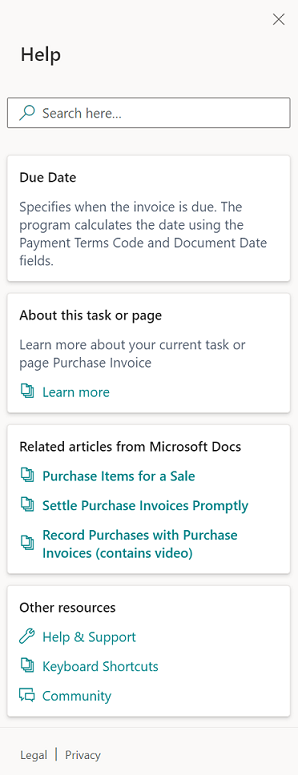
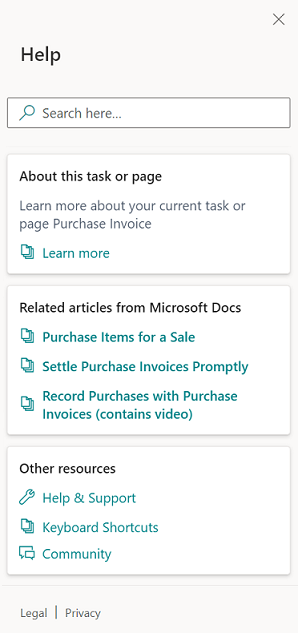
updates

diff --git a/dev-itpro/user-assistance.md b/dev-itpro/user-assistance.md
@@ -5,7 +5,7 @@ author: edupont04
 ms.custom: na
 ms.reviewer: na
 ms.topic: article
-ms.date: 01/28/2022
+ms.date: 03/08/2022
 ms.author: edupont
 ---
 
@@ -29,9 +29,13 @@ In this article, we'll talk about the user assistance model itself and what it d
 
 ## Help users get started
 
-The user assistance concept of *Get Started* is not just about getting started with [!INCLUDE[prod_short](developer/includes/prod_short.md)] on the first day. It's also about getting started all the other days, and about getting started with infrequent and unfamiliar tasks.  
+The user assistance concept of *Get Started* is not just about getting started with [!INCLUDE[prod_short](developer/includes/prod_short.md)] on the first day. It's also about getting started all the other days, and about getting started with infrequent and unfamiliar tasks. Any new product can be baffling at first. For infrequent tasks, even after months of using the product, users can find it hard to remember where that report is, or how to fill in that form.  
+
+The default version of [!INCLUDE [prod_short](includes/prod_short.md)] online includes in-product tours to introduce the first users of a new tenant to the general user interface and the most used pages. The in-product search makes it easy to find pages or reports - provided that you remember what they're called.  
 
 We strive to make [!INCLUDE [prod_short](includes/prod_short.md)] easy to get started with in the browser and in the apps for desktop and mobile devices. Assistance in the shape of wizards is helpful for setup or filling in data for a complicated report, for example. Home pages that are designed for a particular role or job help users get started with their daily work – they can easily get to their most important tasks, and that means that [!INCLUDE[prod_short](developer/includes/prod_short.md)] helps them get their work done more efficiently. Similarly, in-product links to videos give new users a quick introduction to how the product works.  
+
+
 
 ### Onboarding checklist
 
@@ -58,6 +62,12 @@ For more information, see [Teaching tips and in-app tours for onboarding users](
 
 When the user opens the Help pane, they see content and links to learn more based on where they are in the product. Once users discover the Help pane, they will be able to help themselves get unblocked, we hope.  
 
+The Help pane shows four types of links:
+
+[!INCLUDE [ua-help-pane-links-default](includes/ua-help-pane-links-default.md)]
+
+If the automatically generated links do not answer the user's question, then the user can use the *Search* field to search Microsoft's content, both documentation and e-learning material. Currently, search in the [!INCLUDE [prod_short](../includes/prod_short.md)] Help pane cannot access sites other than the *docs.microsoft.com* site, including Microsoft Learn.  
+
 ## Help users get unblocked
 
 Even the best designed user interface can still be confusing to some. It can be difficult to predict what users will find confusing, and that is why the base application includes descriptions for all controls and actions that can be accessed when you choose the caption of the control or action. In combination with descriptive captions and instructional text, these tooltips, or callouts, constitute the larger part of our current implementation of *embedded user assistance*, which is an important principle in today's world of software design.  
@@ -79,7 +89,7 @@ Most tooltips end with an automatically generated link to *learn more* as descri
 >
 > For more information, see the [Help users learn more](#help-users-learn-more) section.
 
-The tooltips in [!INCLUDE [prod_short](developer/includes/prod_short.md)] are conceptually similar to *[field descriptions](/dynamics365/fin-ops-core/fin-ops/get-started/view-export-field-descriptions?toc=/dynamics365/finance/toc.json)* in Dynamics 365 Finance and related apps, and *[teaching tips](/windows/uwp/design/controls-and-patterns/dialogs-and-flyouts/teaching-tip)* in the Universal Windows Platform's Fluent Design guidelines. The onboarding framework in [2021 release wave 1](/dynamics365-release-plan/2021wave1/smb/dynamics365-business-central/in-app-contextual-help-improvements) adds another interpretation of teaching tips that you can add to your [!INCLUDE [prod_short](developer/includes/prod_short.md)] solution. For more information, see [Teaching tips and in-app tours for onboarding users](administration/onboarding-teaching-tips-tours.md).
+The tooltips in [!INCLUDE [prod_short](developer/includes/prod_short.md)] are conceptually similar to *[field descriptions](/dynamics365/fin-ops-core/fin-ops/get-started/view-export-field-descriptions?toc=/dynamics365/finance/toc.json)* in Dynamics 365 Finance and related apps, and *[teaching tips](/windows/uwp/design/controls-and-patterns/dialogs-and-flyouts/teaching-tip)* in the Universal Windows Platform's Fluent Design guidelines. The [onboarding framework](administration/onboarding-experiences.md) adds another interpretation of the same concept, *teaching tips*, that you can add to your [!INCLUDE [prod_short](developer/includes/prod_short.md)] solution. For more information, see [Teaching tips and in-app tours for onboarding users](administration/onboarding-teaching-tips-tours.md).
 
 ### Guidelines for tooltip text
 
@@ -99,17 +109,17 @@ Users can access this content either through the *Learn more* link in tooltips, 
 
 [!INCLUDE [2022_releasewave1](includes/2022_releasewave1.md)]
 
-The *Learn more* links open the Help pane. In most cases, the pane shows the following types of content:
+The *Learn more* links on tooltips and the Ctrl+F1 shortcut now open the Help pane. In most cases, the pane shows the following types of content:
 
 [!INCLUDE [ua-help-pane-links-default](includes/ua-help-pane-links-default.md)]
 
 The partner-provided links are based on the mechanism for adding links through app-level and page-level configuration. For more information, see [Configure Context-Sensitive Help](help/context-sensitive-help.md).  
 
-The following screenshot illustrates the Help pane when it is opened from a *Learn more* link on a tooltip for the **Due Date** field in the **Purchase Invoice** page.
+The following screenshot illustrates the Help pane when it is opened from the **Purchase Invoice** page.
 
 :::image type="content" source="media/ua_help_pane.png" alt-text="Help pane with tooltip text, page metadata link, and links to Docs.microsoft.com.":::
 
-In this case, the **Purchase Invoice** page has not been extended by any apps. If two apps had extended the page, their page-level and app-level configuration would be used to add links on a card between the *About this page or task* and *Related articles from Microsoft Docs* cards.  
+In this case, the **Purchase Invoice** page has not been extended by any apps. If two apps had extended the page, their page-level and app-level configuration would be used to add links on a card after the *Related articles from Microsoft Docs* card.  
 
 The base version of [!INCLUDE[prod_short](developer/includes/prod_short.md)] uses content that is published to an online library, ([Docs.microsoft.com/dynamics365/business-central](/dynamics365/business-central/index)), so that it can also serve as onboarding material and as feature overviews that you can share with prospects. The content is written in MarkDown, and our source files are available in a [public GitHub repo](https://github.com/MicrosoftDocs/dynamics365smb-docs) that you can extend and customize for your customers.  
 
@@ -139,7 +149,7 @@ If you fork one of our repos, you will be authoring in MarkDown. We recommend th
 
 The [Docs Authoring Pack for VS Code](/contribute/how-to-write-docs-auth-pack) can aid with MarkDown authoring and validation in Visual Studio Code. However, you can also use other text editors to edit MarkDown.  
 
-For other tips and tricks, see [Extend, Customize, and Collaborate on the Help](help/contributor-guide.md) and [Blog post: Collaborate on content for Business Central](https://cloudblogs.microsoft.com/dynamics365/it/2019/08/14/collaborate-on-content-for-dynamics-365-business-central/).  
+For other tips and tricks, see [Extend, Customize, and Collaborate on the Help](help/contributor-guide.md) and the blog post [Collaborate on content for Business Central](https://cloudblogs.microsoft.com/dynamics365/it/2019/08/14/collaborate-on-content-for-dynamics-365-business-central/).  
 
 ## Translate the Help
 

diff --git a/dev-itpro/deployment/configure-help.md b/dev-itpro/deployment/configure-help.md
@@ -5,7 +5,7 @@ author: edupont04
 ms.custom: na
 ms.reviewer: na
 ms.topic: conceptual
-ms.date: 02/01/2022
+ms.date: 03/07/2022
 ms.author: edupont
 ---
 
@@ -35,7 +35,7 @@ For inspiration for how to create a website that can host your content, take a l
 For deploying [!INCLUDE[prod_short](../developer/includes/prod_short.md)] on-premises, you can choose between using any online website or the legacy Dynamics NAV Help Server, and you can configure different Help experience for each [!INCLUDE[webserver](../developer/includes/webserver.md)] instance. For example, use the [Custom Help Toolkit](../help/custom-help-toolkit.md) to help you deploy content to an Azure Web App. For supported versions, the legacy Dynamics NAV Help Server component is a simple website that requires your Help to be in a specific format (HTML files). Other types of websites can host any content that you want to make available. Your choice depends on the needs of your solution and your users. If you add configuration for an online library, you must remove any settings for Help Server.  
 
 > [!IMPORTANT]
-> The legacy Dynamics NAV Help Server component is deprecated in 2021 release wave 1 (version 18). We recommend that you invest in a different type of website. For more information, see the [deprecation notice](../upgrade/deprecated-features-platform.md#the-help-server-component) and the [Custom Help Toolkit](../help/custom-help-toolkit.md) section.
+> The legacy Dynamics NAV Help Server component was deprecated and removed in 2021 release wave 1 (version 18). We recommend that you invest in a different type of website. For more information, see the [deprecation notice](../upgrade/deprecated-features-platform.md#the-help-server-component) and the [Custom Help Toolkit](../help/custom-help-toolkit.md) section.
 
 > [!TIP]
 > The content on the [docs.microsoft.com/dynamics365/business-central/](/dynamics365/business-central/) site and in the various GitHub repos reflects the latest version of [!INCLUDE [prod_short](../developer/includes/prod_short.md)], unless otherwise specified.
@@ -81,38 +81,16 @@ If you want to use Help Server, then you must specify the server and port in the
 
 > [!IMPORTANT]
 > In version 18 and later versions, if you use the legacy Dynamics NAV Help Server component as a standalone website, then you must use the settings for the online library that is described in the previous section.
->
-> The following content in this section applies to using Help Server as it was originally intended to be used. However, this type of usage is no longer supported, starting with 2021 release wave 1.
 
-The navsettings.json file must contain the following settings in the `NAVWebSettings` element:
-
-```json
-{
-  "NAVWebSettings": {
-    //HelpServer: Name of the Dynamics NAV Help Server to connect to,
-    "HelpServer": "https://myserver.com",
-    //HelpServerPort:  The listening TCP port for the Dynamics NAV Help Server. Valid range: 1-65535,
-    "HelpServerPort": "49000",
-    // [...more keys]
-  },
-  "ApplicationIdSettings": {
-    // [...more keys]
-  }
-}
-```
-
-In the example, `https://myserver.com` represents the URL to the Help Server instance, and the value of the `HelpServerPort`setting determines that port 49000 on that webserver is where the content is. For more information, see [Configuring Microsoft Dynamics NAV Help Server](/dynamics-nav/configuring-microsoft-dynamics-nav-help-server) in the developer and administration content for [!INCLUDE[navnow_md](../developer/includes/navnow_md.md)].  
+For more information, see [Configuring Microsoft Dynamics NAV Help Server](/dynamics-nav/configuring-microsoft-dynamics-nav-help-server) in the developer and administration content for [!INCLUDE[navnow_md](../developer/includes/navnow_md.md)].  
 
 > [!IMPORTANT]
-> If you use Help Server, the UI-to-Help mapping functionality that is described in [Configure Context-Sensitive Help](../help/context-sensitive-help.md) does not work. Neither does the original Help lookup mechanism that was based on filenames that reflected the object IDs, such as N_123.htm for the page object with the ID 123. For more information, see [Blog post: Reusing classic object-based Help on your Dynamics 365 Business Central Help Server](https://cloudblogs.microsoft.com/dynamics365/it/2019/08/13/reusing-classic-object-based-help-dynamics-365-business-central-help-server?target=_blank).
+> If you use Help Server, context-sensitive Help does not work anymore. Neither the UI-to-Help mapping functionality that is described in [Configure Context-Sensitive Help](../help/context-sensitive-help.md), nor the original Help lookup mechanism that was based on filenames that reflected the object IDs, such as N_123.htm for the page object with the ID 123. For more information, see the blog post [Reusing classic object-based Help on your Dynamics 365 Business Central Help Server](https://cloudblogs.microsoft.com/dynamics365/it/2019/08/13/reusing-classic-object-based-help-dynamics-365-business-central-help-server?target=_blank).
 
 > [!TIP]
-> If you are upgrading from [!INCLUDE [navsicily_md](../developer/includes/navsicily_md.md)] or later, you can reuse your existing Help Server content by simply replacing the product name and make any other changes that apply to your [!INCLUDE [prod_short](../developer/includes/prod_short.md)] environment. Alternatively,deploy your existing content to an online library.
+> If you are upgrading from [!INCLUDE [navsicily_md](../developer/includes/navsicily_md.md)] or later, you can reuse your existing Help Server content by simply replacing the product name and make any other changes that apply to your [!INCLUDE [prod_short](../developer/includes/prod_short.md)] environment. But we encourage you to deploy the content to another website.
 
 [!INCLUDE [nav2017classichelp](../developer/includes/nav2017classichelp.md)]
-
-> [!IMPORTANT]
-> Specifically for the preview of [!INCLUDE [prod_short](../developer/includes/prod_short.md)] in India, the installation of Help Server fails due to missing files on the installation media. The solution is to install Help Server without the HTML files for local functionality and instead pick up the content from GitHub. For more information, see [Get updates from Microsoft](../help/contributor-guide.md#get-updates-from-microsoft).
 
 ## Deploy content to your website
 
@@ -134,10 +112,12 @@ In versions older than 2022 release wave 1, the in-product search includes searc
 
 ### Optional: Get Microsoft's content
 
-If you deploy a solution that customizes Microsoft's default application, then you might want to include a customized version of Microsoft's business functionality content on your website. In most other cases, such as if you build an add-on app, you do not need Microsoft's content. Your own content will supplement Microsoft's content in the same way that your code supplements Microsoft's code. For more information, see [Configure Context-Sensitive Help](../help/context-sensitive-help.md).  
+If you deploy a solution that customizes Microsoft's default application, then you might want to include a customized version of Microsoft's business functionality content on your website. In most other cases, such as if you build an add-on app, you do *not* need Microsoft's content. Your own content will supplement Microsoft's content in the same way that your code supplements Microsoft's code. For more information, see [Configure Context-Sensitive Help](../help/context-sensitive-help.md).  
 
 > [!IMPORTANT]
-> The remainder of this section is for those people who need a copy of Microsoft's content to deploy to a website along with their own content.  
+> The remainder of this section is for those people who need a copy of Microsoft's content to deploy to a website along with their own content. In many cases, you do not need to customize Microsoft's content, and this section is irrelevant for you. However, if you deploy a customized solution on-premises or in a closed environment, then you might need to include Microsoft's content in your Help website.
+
+[!INCLUDE [ua-robots](../includes/ua-robots.md)]
 
 Microsoft's source files are available as downloadable packages for each major release in the [https://github.com/MicrosoftDocs/dynamics365smb-docs/](https://github.com/MicrosoftDocs/dynamics365smb-docs/releases) GitHub repo in English (US) only. For other languages, pull files based on a commit before the next major version.  
 

diff --git a/dev-itpro/includes/ua-help-pane-links-default.md b/dev-itpro/includes/ua-help-pane-links-default.md
@@ -2,13 +2,22 @@
 author: edupont04
 ms.service: dynamics365-business-central
 ms.topic: include
-ms.date: 01/28/2022
+ms.date: 03/07/2022
 ms.author: edupont
 ---
-- A short description of the current page with a *Learn more* link (only applies to select pages)  
 
-    This *Learn more* link is automatically generated. If [!INCLUDE[prod_short](prod_short.md)] can't find the relevant link, the landing page on [Docs.microsoft.com](/dynamics365/business-central) for the default version of [!INCLUDE[prod_short](prod_short.md)] is shown. For example, if the page was part of an app that didn't add context-sensitive Help mapping to [!INCLUDE[prod_short](prod_short.md)], the *Learn link* defaults to the landing page.  
-- Links to Help content for any apps that are applied to the current page  
-- Links to Help content from Microsoft if the current page is part of the base application  
-- Links to Microsoft Learn content if the current page is part of the base application  
-- Links to the  **Help & Support** page inside [!INCLUDE [prod_short](prod_short.md)], the [Keyboard Shortcuts](/dynamics365/business-central/keyboard-shortcuts) article, and the [!INCLUDE [prod_short](prod_short.md)] community  
+- A link about the current page
+
+  At the top of the pane, a card repeats the current page's teaching tip, if one exists. If there is no teaching tip, then the card provides a single link to an article about the page. This link is based on the page-level configuration of context-sensitive Help.  
+
+  If [!INCLUDE[prod_short](prod_short.md)] can't find the relevant link, the landing page on [Docs.microsoft.com](/dynamics365/business-central) for the default version of [!INCLUDE[prod_short](prod_short.md)] is shown. For example, if the page was part of an app that didn't add context-sensitive Help mapping to [!INCLUDE[prod_short](prod_short.md)], the *Learn link* defaults to the landing page.  
+
+- Links to related articles from Microsoft Docs  
+
+  These links are related to the current page and wil be changed if you move to another page. The links are limited to the docs.microsoft.com site. If there are more than three links, choose the *Show more* link to expand the card. Choose any link, and the related article will open in a new browser tab.  
+- Links to content for apps on the current page  
+
+  These links are based on any app that extends the page or defines the page. These links are based on the [page-level configuration of context-sensitive Help](help/context-sensitive-help.md#page-level-configuration).  
+- Links to other resources
+
+  Three links are always available in the Help pane: Links to the  **Help & Support** page inside [!INCLUDE [prod_short](prod_short.md)], the [Keyboard Shortcuts](/dynamics365/business-central/keyboard-shortcuts) article, and the [!INCLUDE [prod_short](prod_short.md)] community. These links are always shown, and the list cannot be modified.

diff --git a/dev-itpro/help/context-sensitive-help.md b/dev-itpro/help/context-sensitive-help.md
@@ -12,7 +12,7 @@ ms.date: 01/28/2022
 
 A key pillar of helping users help themselves is to give them access to Help for the particular part of [!INCLUDE [prod_short](../developer/includes/prod_short.md)] that they are working in. When you build an app for [!INCLUDE [prod_short](../includes/prod_short.md)] online, we expect you to provide Help for your solution that can be accessed from the *Learn more* links on tooltips. For more information, see [Help users learn more](../user-assistance.md#help-users-learn-more).  
 
-Starting in 2022 release wave 1, version 20, the *Learn more* links open the Help pane. The same mechanism makes sure that your links are available in the Help pane.
+Starting in 2022 release wave 1, version 20, the *Learn more* links open the Help pane. The same mechanism makes sure that your page-level links are available in the Help pane.
 
 The *Learn more* links are generated based on two configuration settings:
 
@@ -126,7 +126,7 @@ You want to replace the values of the fields in the **Relative Path** column wit
 
 Once you have done this mapping, you can apply it to the **Page Documentation** table by using a script that updates the table in the SQL Server database, for example.  
 
-You can find a couple of suggestions for how to go about this in our blog post, [Blog post: Reusing classic object-based Help on your Dynamics 365 Business Central Help Server](https://cloudblogs.microsoft.com/dynamics365/it/2019/08/13/reusing-classic-object-based-help-dynamics-365-business-central-help-server/).
+You can find a couple of suggestions for how to go about this in our blog post, [Reusing classic object-based Help on your Dynamics 365 Business Central Help Server](https://cloudblogs.microsoft.com/dynamics365/it/2019/08/13/reusing-classic-object-based-help-dynamics-365-business-central-help-server/).
 
 ## See also
 

diff --git a/dev-itpro/includes/ua-tooltips-teachingtips.md b/dev-itpro/includes/ua-tooltips-teachingtips.md
@@ -9,4 +9,4 @@ There are different rules for tooltips and teaching tips.
 | Tooltip pointing at a field caption | Teaching tip pointing to a field |
 |--|--|
 | :::image type="content" source="../media/onboarding-tooltip-field.png" alt-text="illustration of a tooltip pointing to a field caption."::: | :::image type="content" source="../media/onboarding-teaching-tip-field.png" alt-text="illustration of a teaching tip pointing to a field caption."::: |
-| Guidance for tooltips:</br><ul></br><li>Every field and action has a tooltip.</li></br><li>Answers the question *What is this?*</li></br><li>Relevant for everything since every field/action has a definition.</li></br></ul></br> | Guidance for control teaching tips:</br><ul></br><li>Only important fields/actions have a teaching tip.</li></br><li>Answers the question *What can I do with this?*</li></br><li>Is not relevant for every field/action.</li></br><li>Teaching tips guides users to fields/actions to be discovered and focus on.</li></br></ul> |
+| Guidance for tooltips:</br><ul></br><li>Every field and action has a tooltip.</li></br><li>Answers the question *What is this?*</li></br><li>Relevant for everything since every field/action has a definition.</li></br></ul></br> | Guidance for control teaching tips:</br><ul></br><li>Only the most important fields/actions have a teaching tip.</li></br><li>Answers the question *What can I do with this?*</li></br><li>Is not relevant for every field/action.</li></br><li>Teaching tips guides users to fields/actions to be discovered and focus on.</li></br></ul> |

diff --git a/dev-itpro/includes/ua-teaching-tips.md b/dev-itpro/includes/ua-teaching-tips.md
@@ -1,7 +1,7 @@
 ---
 author: edupont04
 ms.topic: include
-ms.date: 04/01/2021
+ms.date: 03/07/2022
 ms.author: edupont
 ---
-With 2021 release wave 1 comes a new intepretation of [teaching tips](/windows/uwp/design/controls-and-patterns/dialogs-and-flyouts/teaching-tip) that you can add to your [!INCLUDE [prod_short](prod_short.md)] solution. Use the teaching tips from the onboarding framework to introduce users to complex pages, and to build tours that help users understand the purpose of a complicated area, for example. Create the teaching tips in code by setting the [AboutTitle](../developer/properties/devenv-abouttitle-property.md) and [AboutText](../developer/properties/devenv-abouttext-property.md) properties.  
+Since 2021 release wave 1, you've been able to add an intepretation of [teaching tips](/windows/uwp/design/controls-and-patterns/dialogs-and-flyouts/teaching-tip) to your [!INCLUDE [prod_short](prod_short.md)] solution. Use the [teaching tips](../administration/onboarding-teaching-tips-tours.md) from the onboarding framework to introduce users to complex pages, and to build tours that help users understand the purpose of a complicated area, for example. Create the teaching tips in code by setting the [AboutTitle](../developer/properties/devenv-abouttitle-property.md) and [AboutText](../developer/properties/devenv-abouttext-property.md) properties.  
